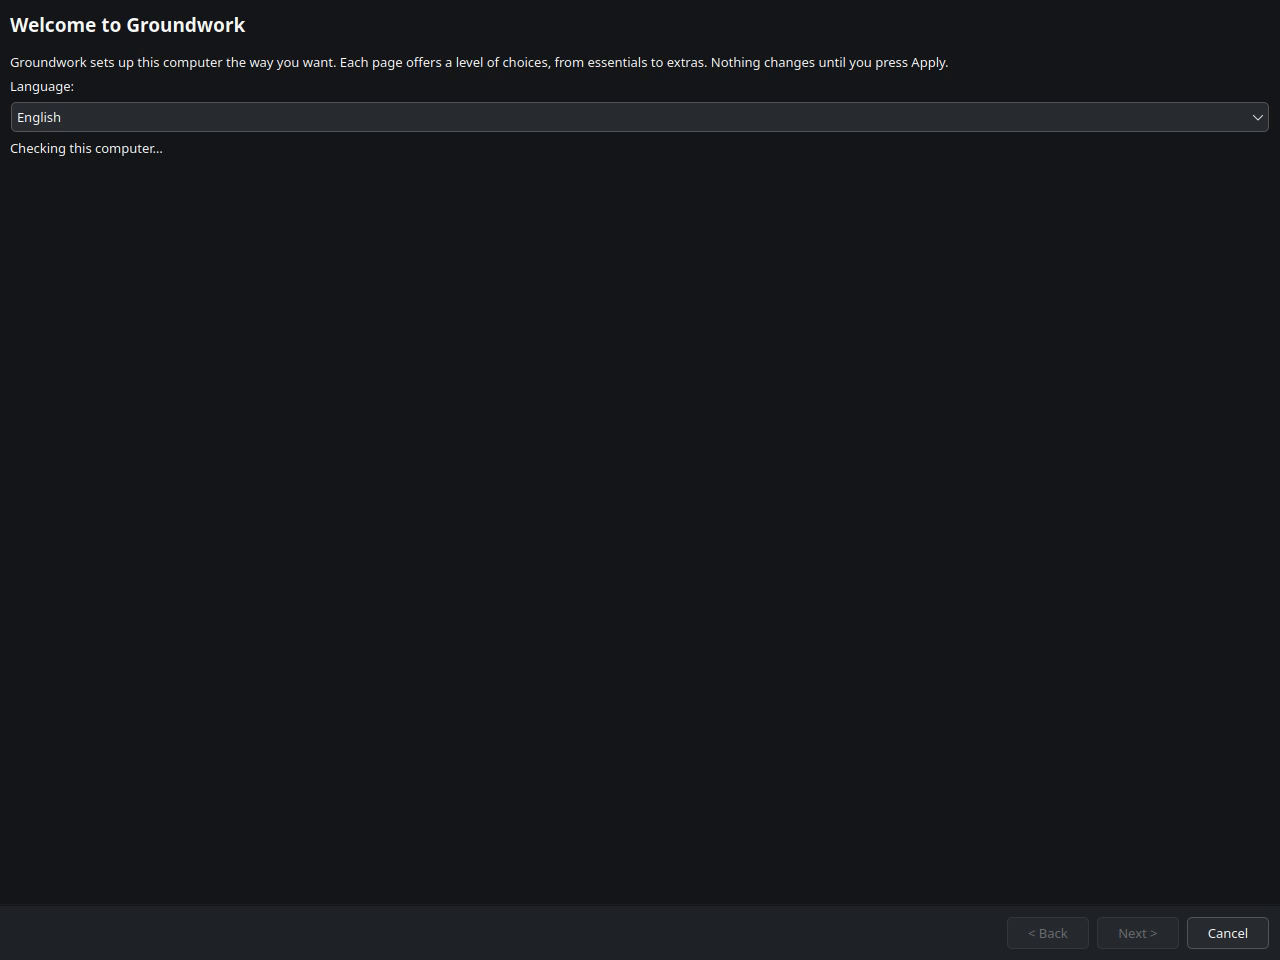
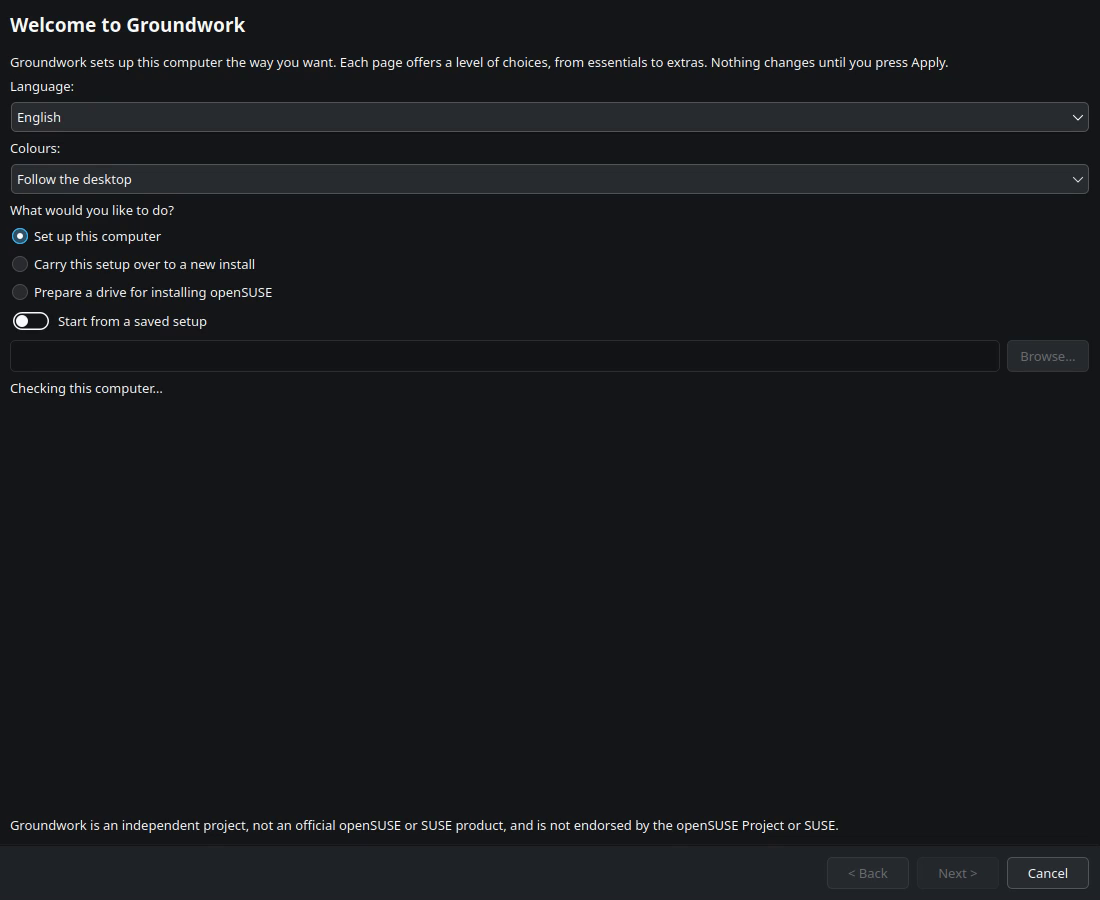
content(groundwork): new screenshots of the 0.5.2 window
Replaces the four shots with the wider two-column window, and adds the
Configuration and System setup pages. The alt text is rewritten from the
new pictures. In the Configuration shot, the Groundwork session painted
out the computer's name and existing share names; the alt text says so.

write-doc: alt text read from the images; the edit adds no link or
symbol, so check-doc-facts was skipped. Page checked in headless Chrome
at desktop and phone widths: the 1100x900 shots fit the gallery.

diff --git a/CHANGELOG.md b/CHANGELOG.md
@@ -17,7 +17,7 @@ so dated sections stand in for versions. Planned work lives in
 ### Changed
 
 - **Groundwork's page covers its newest release: sharing folders at home and connecting extra drives at start-up**
-  It also says that shared folders have no password, and that the app remembers your colour theme.
+  It also says that shared folders have no password, and that the app remembers your colour theme. Its screenshots are new too, with two more pages.
 
 - **RetroDB's page covers its newest release: it updates itself, and can download and set up RetroArch for you**
   It also mentions the RPCS3 compatibility shown for PS3 games, and AI Fill's sales figures, regional release dates and official names.
